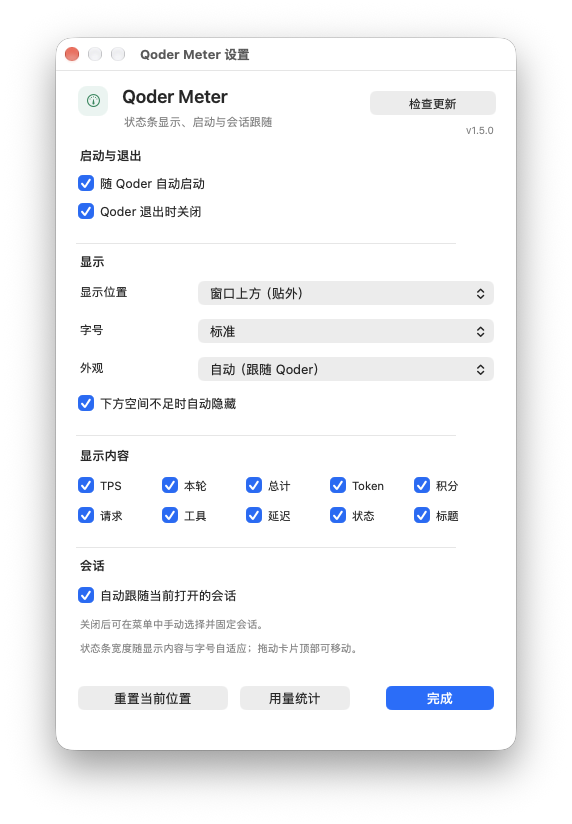
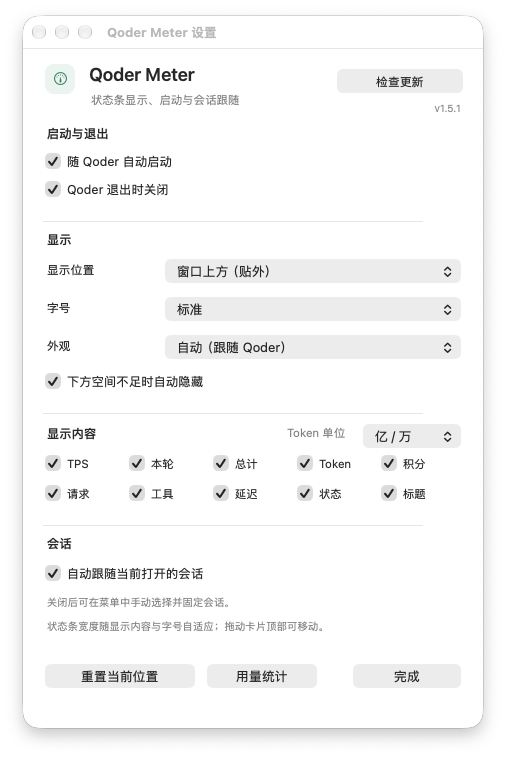
Add switchable token units
Support compact token abbreviations in either b/m/k or Chinese 亿/万, with the same choice applied across the bar, tooltip, and usage statistics. Expose the setting in the settings window and status menu.

diff --git a/src/main.js b/src/main.js
@@ -84,6 +84,11 @@ const FONT_SIZES = [
   { id: 'xlarge', label: '特大', scale: 1.32 }
 ];
 
+const TOKEN_UNITS = [
+  { id: 'latin', label: 'b / m / k', sample: '≈ 888.8m' },
+  { id: 'cn', label: '亿 / 万', sample: '≈ 8888.8万' }
+];
+
 const DISPLAY_FIELDS = [
   { id: 'tps', label: 'TPS' },
   { id: 'turn', label: '本轮' },
@@ -231,6 +236,7 @@ const state = {
     requests: true, tools: true, latency: true, status: true, title: true
   },
   fontSize: 'normal',
+  tokenUnit: 'latin',
   statsMode: 'hover',
   statsRange: '7d',
   statsHidden: false,
@@ -340,6 +346,7 @@ let settingsClose = null;
 let settingsFollow = null;
 let settingsPosPopup = null;
 let settingsFontPopup = null;
+let settingsTokenUnitPopup = null;
 let settingsFieldChecks = [];
 let statsPanel = null;
 let statsPillBox = null;
@@ -425,11 +432,24 @@ function readBlock(path, offset) {
   }
 }
 
-function fmtK(n) {
+function fmtToken(n) {
   if (!n || n <= 0) return '—';
+  if (state.tokenUnit === 'cn') {
+    if (n >= 100000000) return (n / 100000000).toFixed(2) + '亿';
+    if (n >= 10000) return (n / 10000).toFixed(1) + '万';
+    return String(Math.round(n));
+  }
+  if (n >= 1000000000) return (n / 1000000000).toFixed(2) + 'b';
   if (n >= 1000000) return (n / 1000000).toFixed(2) + 'm';
   if (n >= 1000) return (n / 1000).toFixed(1) + 'k';
   return String(Math.round(n));
+}
+
+function tokenUnitSample() {
+  for (let i = 0; i < TOKEN_UNITS.length; i++) {
+    if (TOKEN_UNITS[i].id === state.tokenUnit) return TOKEN_UNITS[i].sample;
+  }
+  return TOKEN_UNITS[0].sample;
 }
 
 function fmtCount(n) {
@@ -605,6 +625,11 @@ function loadSettings() {
           if (FONT_SIZES[i].id === obj.fontSize) state.fontSize = obj.fontSize;
         }
       }
+      if (obj.tokenUnit) {
+        for (let i = 0; i < TOKEN_UNITS.length; i++) {
+          if (TOKEN_UNITS[i].id === obj.tokenUnit) state.tokenUnit = obj.tokenUnit;
+        }
+      }
       if (obj.statsMode) {
         for (let i = 0; i < STATS_MODES.length; i++) {
           if (STATS_MODES[i].id === obj.statsMode) state.statsMode = obj.statsMode;
@@ -636,6 +661,7 @@ function saveSettings() {
       widths: state.widths,
       display: state.display,
       fontSize: state.fontSize,
+      tokenUnit: state.tokenUnit,
       statsMode: state.statsMode,
       statsRange: state.statsRange,
       bottomAutoHide: state.bottomAutoHide
@@ -949,7 +975,7 @@ function statsForRange(range) {
 
 function fmtStatsTokens(v) {
   if (!v || v <= 0) return '0';
-  return fmtK(v);
+  return fmtToken(v);
 }
 
 function dayLabel(key) {
@@ -1587,7 +1613,7 @@ function metricSampleWidth(mode, regFont, medFont) {
   };
   if (state.display.turn) { sep(); add('本轮 ', regFont); add('88m 88s', medFont); }
   if (state.display.age) { sep(); add('总计 ', regFont); add('888h 88m', medFont); }
-  if (state.display.token) { sep(); add('Token ', regFont); add('≈ 888.8k', medFont); }
+  if (state.display.token) { sep(); add('Token ', regFont); add(tokenUnitSample(), medFont); }
   if (state.display.credits) { sep(); add('积分 ', regFont); add('888.88', medFont); }
   if (state.display.requests) { sep(); add('8888 请求', regFont); }
   if (state.display.tools) { sep(); add('工具 8.8k', regFont); }
@@ -2043,8 +2069,8 @@ function updateUI() {
   const tpsText = fmtTps(state.tps);
   const turnText = state.turnWall ? fmtDuration(state.turnWall) : '—';
   const ageText = state.sessionAge ? fmtDuration(state.sessionAge) : '—';
-  const outText = state.exactOut > 0 ? fmtK(state.exactOut)
-    : (state.estOut > 0 ? '≈ ' + fmtK(state.estOut) : '—');
+  const outText = state.exactOut > 0 ? fmtToken(state.exactOut)
+    : (state.estOut > 0 ? '≈ ' + fmtToken(state.estOut) : '—');
   const latencyText = state.lastLatency ? fmtElapsed(state.lastLatency) : '—';
 
   if (titleLabel) {
@@ -2101,9 +2127,9 @@ function updateUI() {
     '本轮时长：' + turnText + '\n' +
     '会话总时长：' + ageText + '（自会话创建）\n' +
     '本轮模型耗时：' + fmtDuration(state.turnDuration) + '\n' +
-    '本轮输出：' + (state.turnTokens ? '≈ ' + fmtK(state.turnTokens) + ' tok' : '—') + '\n' +
-    '会话输出：' + (state.exactOut > 0 ? fmtK(state.exactOut) : '≈ ' + fmtK(state.estOut)) + ' tok\n' +
-    (state.inputTokens > 0 ? '输入 Token：' + fmtK(state.inputTokens) + '\n' : '') +
+    '本轮输出：' + (state.turnTokens ? '≈ ' + fmtToken(state.turnTokens) + ' tok' : '—') + '\n' +
+    '会话输出：' + (state.exactOut > 0 ? fmtToken(state.exactOut) : '≈ ' + fmtToken(state.estOut)) + ' tok\n' +
+    (state.inputTokens > 0 ? '输入 Token：' + fmtToken(state.inputTokens) + '\n' : '') +
     '已用积分：' + fmtCredits(state.credits) + '\n' +
     '请求数：' + requestCount + '（本轮 ' + state.turnRequestCount + '）\n' +
     '工具调用：' + toolCount + '\n' +
@@ -2412,6 +2438,16 @@ function buildMenu() {
   fontItem.setSubmenu(fontMenu);
   menu.addItem(fontItem);
 
+  const tokenUnitMenu = $.NSMenu.alloc.initWithTitle('Token 单位');
+  tokenUnitMenu.setAutoenablesItems(false);
+  for (let i = 0; i < TOKEN_UNITS.length; i++) {
+    tokenUnitMenu.addItem(menuItem(TOKEN_UNITS[i].label, 'tokenUnitMenu:',
+      state.tokenUnit === TOKEN_UNITS[i].id, TOKEN_UNITS[i].id));
+  }
+  const tokenUnitItem = $.NSMenuItem.alloc.initWithTitleActionKeyEquivalent('Token 单位', '', '');
+  tokenUnitItem.setSubmenu(tokenUnitMenu);
+  menu.addItem(tokenUnitItem);
+
   const statsModeMenu = $.NSMenu.alloc.initWithTitle('统计显示');
   statsModeMenu.setAutoenablesItems(false);
   for (let i = 0; i < STATS_MODES.length; i++) {
@@ -2449,7 +2485,7 @@ function menuSignature() {
   const parts = state.recent.map(function (r) { return r.session_id + ':' + (r.title || ''); });
   return parts.join('|') + '#' + (state.pinned || '') + '#' + state.sessionId + '#' +
     (state.panelHidden ? 1 : 0) + '#' + state.layout + '#' + state.theme + '#' +
-    state.fontSize + '#' + JSON.stringify(state.display) + '#' +
+    state.fontSize + '#' + state.tokenUnit + '#' + JSON.stringify(state.display) + '#' +
     state.statsMode + '#' + state.statsRange + '#' + (state.statsHidden ? 1 : 0) + '#' +
     (state.autoStart ? 1 : 0) + '#' + (state.closeWithQoder ? 1 : 0);
 }
@@ -2685,7 +2721,19 @@ function buildSettingsWindow() {
   root.addSubview(settingsBottomAutoHide);
   root.addSubview(sSeparator(314));
 
-  root.addSubview(sLabel('显示内容', [22, 284, 400, 18], 12.5, $.NSFontWeightSemibold));
+  root.addSubview(sLabel('显示内容', [22, 284, 180, 18], 12.5, $.NSFontWeightSemibold));
+  root.addSubview(sLabel('Token 单位', [262, 284, 76, 18], 11.5,
+    $.NSFontWeightRegular, $.NSColor.secondaryLabelColor));
+  let tokenUnitIndex = 0;
+  const tokenUnitLabels = [];
+  for (let i = 0; i < TOKEN_UNITS.length; i++) {
+    tokenUnitLabels.push(TOKEN_UNITS[i].label);
+    if (TOKEN_UNITS[i].id === state.tokenUnit) tokenUnitIndex = i;
+  }
+  settingsTokenUnitPopup = sPopup(tokenUnitLabels, tokenUnitIndex,
+    [340, 278, 98, 28], 'settingsTokenUnitChanged:');
+  try { settingsTokenUnitPopup.setToolTip('状态条和用量统计中的 Token 缩写单位'); } catch (e) {}
+  root.addSubview(settingsTokenUnitPopup);
   settingsFieldChecks = [];
   for (let i = 0; i < DISPLAY_FIELDS.length; i++) {
     const field = DISPLAY_FIELDS[i];
@@ -2730,6 +2778,13 @@ function updateSettingsControls() {
     }
     for (let i = 0; i < settingsFieldChecks.length && i < DISPLAY_FIELDS.length; i++) {
       settingsFieldChecks[i].setState(state.display[DISPLAY_FIELDS[i].id] ? 1 : 0);
+    }
+    if (settingsTokenUnitPopup) {
+      let tokenUnitIndex = 0;
+      for (let i = 0; i < TOKEN_UNITS.length; i++) {
+        if (TOKEN_UNITS[i].id === state.tokenUnit) tokenUnitIndex = i;
+      }
+      settingsTokenUnitPopup.selectItemAtIndex(tokenUnitIndex);
     }
     settingsThemePopup.selectItemAtIndex(Math.max(0, SKIN_IDS.indexOf(state.theme)));
     const dark = state.resolvedSkin === 'graphite' || state.resolvedSkin === 'dusk';
@@ -3284,6 +3339,21 @@ function setFontSize(id) {
   rebuildPanelUI();
 }
 
+function setTokenUnit(id) {
+  let valid = false;
+  for (let i = 0; i < TOKEN_UNITS.length; i++) {
+    if (TOKEN_UNITS[i].id === id) valid = true;
+  }
+  if (!valid || id === state.tokenUnit) {
+    updateSettingsControls();
+    buildMenu();
+    return;
+  }
+  state.tokenUnit = id;
+  saveSettings();
+  rebuildPanelUI();
+}
+
 function toggleDisplayField(id) {
   if (typeof state.display[id] !== 'boolean') return;
   state.display[id] = !state.display[id];
@@ -3519,6 +3589,14 @@ ObjC.registerSubclass({
         setFontSize(font.id);
       }
     },
+    'settingsTokenUnitChanged:': {
+      types: ['void', ['id']],
+      implementation: function (sender) {
+        const idx = Number(settingsTokenUnitPopup.indexOfSelectedItem);
+        const unit = TOKEN_UNITS[idx] || TOKEN_UNITS[0];
+        setTokenUnit(unit.id);
+      }
+    },
     'settingsToggleField:': {
       types: ['void', ['id']],
       implementation: function (sender) {
@@ -3531,6 +3609,12 @@ ObjC.registerSubclass({
       types: ['void', ['id']],
       implementation: function (sender) {
         setFontSize(representedId(sender));
+      }
+    },
+    'tokenUnitMenu:': {
+      types: ['void', ['id']],
+      implementation: function (sender) {
+        setTokenUnit(representedId(sender));
       }
     },
     'toggleDisplay:': {

diff --git a/README.md b/README.md
@@ -77,6 +77,7 @@ Qoder Meter 是一个轻量的 macOS 菜单栏/浮窗工具，用只读方式读
   - 状态条宽度由启用的指标和字号自动计算，不再使用固定 640/800/960 预设。
   - 字号提供 `小 / 标准 / 大 / 特大` 四档，高度与宽度同步调整；作用于标题栏、窗口上方和下方状态条，卡片保持固定排版。
   - 可在设置窗口或菜单栏「显示内容」中开关：TPS、本轮、总计、Token、积分、请求、工具、延迟、状态、标题。
+  - Token 单位可在 `b / m / k` 与 `亿 / 万` 之间切换，设置窗口「显示内容」右侧或菜单栏「Token 单位」均可调整；状态条与用量统计同步生效，宽度随之自适应。
   - 侧边栏卡片始终显示完整摘要，不受状态条内容开关影响。
 - **外观与位置**
   - 六套皮肤：自动 / 纸白 / 石墨 / 海盐 / 暮色 / 暖砂。
@@ -176,6 +177,7 @@ open QoderMeter.app
   - `直接显示`：统计面板常驻，显示摘要、模型和最近 5 天。
   - `分页显示`：统计面板常驻，按天分页，可前后翻页。
 - 面板宽度会按模型名长度调整，高度按模型行数、日期行数和是否存在翻页收紧。
+- Token 单位跟随「Token 单位」设置：`b / m / k` 或 `亿 / 万`；状态条、摘要卡、模型列和按天列表使用同一单位。
 - 统计结果来自本地会话日志，缓存 10 分钟；点击面板「刷新」会重新扫描。
 - 统计的是实际用量，不包含账号每日权益余额或领取状态。
 
